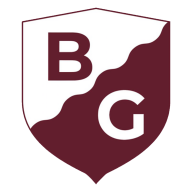
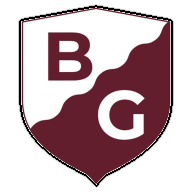
Escudos: Athletic Academy en círculo blanco legible (rojo del Athletic de fondo) y contorno negro fino en BGE
Claude-Session: https://claude.ai/code/session_017GJckUcact2uuuHqMo6vqx

diff --git a/app/lib/crests.ts b/app/lib/crests.ts
@@ -30,6 +30,7 @@ const COLOR_OVERRIDES: Record<string, string | { light: string; dark: string }> 
   etxebarri: "#da2422",                          // rojo del escudo
   "cultural-durango": "#2d3e84",                // azul del escudo
   gernika: { light: "#0f0f10", dark: "#ffffff" }, // negro en claro, blanco en oscuro
+  "athletic-academy": "#c8102e",                 // rojo del Athletic (el escudo es un círculo blanco)
 };
 
 /** Color del club: el dominante de su escudo (o el del monograma si aún no hay escudo). */

diff --git a/app/lib/crests.generated.ts b/app/lib/crests.generated.ts
@@ -3,7 +3,7 @@ export const CRESTS: Readonly<Record<string, string>> = {
   "abadino": "#268543",
   "ariznabarra": "#2c2b57",
   "arrupe-chaminade": "#4671b5",
-  "athletic-academy": "#f35757",
+  "athletic-academy": "#c2c2c2",
   "baskauri": "#fced03",
   "bermeo": "#d4121b",
   "bge-aiboa": "#621e2d",

diff --git a/scripts/crest-outline.py b/scripts/crest-outline.py
@@ -1,0 +1,35 @@
+#!/usr/bin/env python3
+"""Añade un contorno fino de color al contorno de un escudo ya convertido (webp con transparencia).
+
+  python3 scripts/crest-outline.py bge-aiboa            # contorno negro de 1,1 % del lado
+  python3 scripts/crest-outline.py bge-aiboa "#000000" 0.011
+
+Actúa sobre public/escudos/<slug>.webp y su versión ligera public/escudos/m/<slug>.webp. Se puede repetir sin acumular grosor
+(parte siempre del escudo sin contorno guardado en assets/escudos-sin-contorno/).
+"""
+import sys, shutil
+from pathlib import Path
+import numpy as np
+from PIL import Image
+from scipy import ndimage as ndi
+
+slug = sys.argv[1]; color = sys.argv[2] if len(sys.argv) > 2 else "#000000"; frac = float(sys.argv[3]) if len(sys.argv) > 3 else 0.011
+rgb = tuple(int(color.lstrip("#")[i:i + 2], 16) for i in (0, 2, 4))
+big, small = Path(f"public/escudos/{slug}.webp"), Path(f"public/escudos/m/{slug}.webp")
+backup = Path("assets/escudos-sin-contorno"); backup.mkdir(parents=True, exist_ok=True)
+
+def outline(src: Path):
+    keep = backup / (src.parent.name + "-" + src.name)
+    if not keep.exists(): shutil.copy(src, keep)          # original sin contorno
+    im = Image.open(keep).convert("RGBA"); a = np.array(im); alpha = a[:, :, 3] > 20
+    px = max(1, round(im.width * frac))
+    yy, xx = np.ogrid[-px:px + 1, -px:px + 1]; disk = (xx * xx + yy * yy) <= px * px
+    ring = ndi.binary_dilation(alpha, structure=disk) & ~alpha
+    out = a.copy(); out[ring] = (*rgb, 255)
+    # suaviza el borde exterior con un poco de antialiasing
+    soft = ndi.gaussian_filter(ring.astype(float), .7); edge = (soft > 0) & ~alpha & ~ring
+    out[edge] = (*rgb, 0); out[edge, 3] = (soft[edge] * 255).astype(np.uint8)
+    Image.fromarray(out).save(src, "WEBP", lossless=True, quality=100, method=6)
+    print("✓", src, f"contorno {px}px")
+
+outline(big); outline(small)
